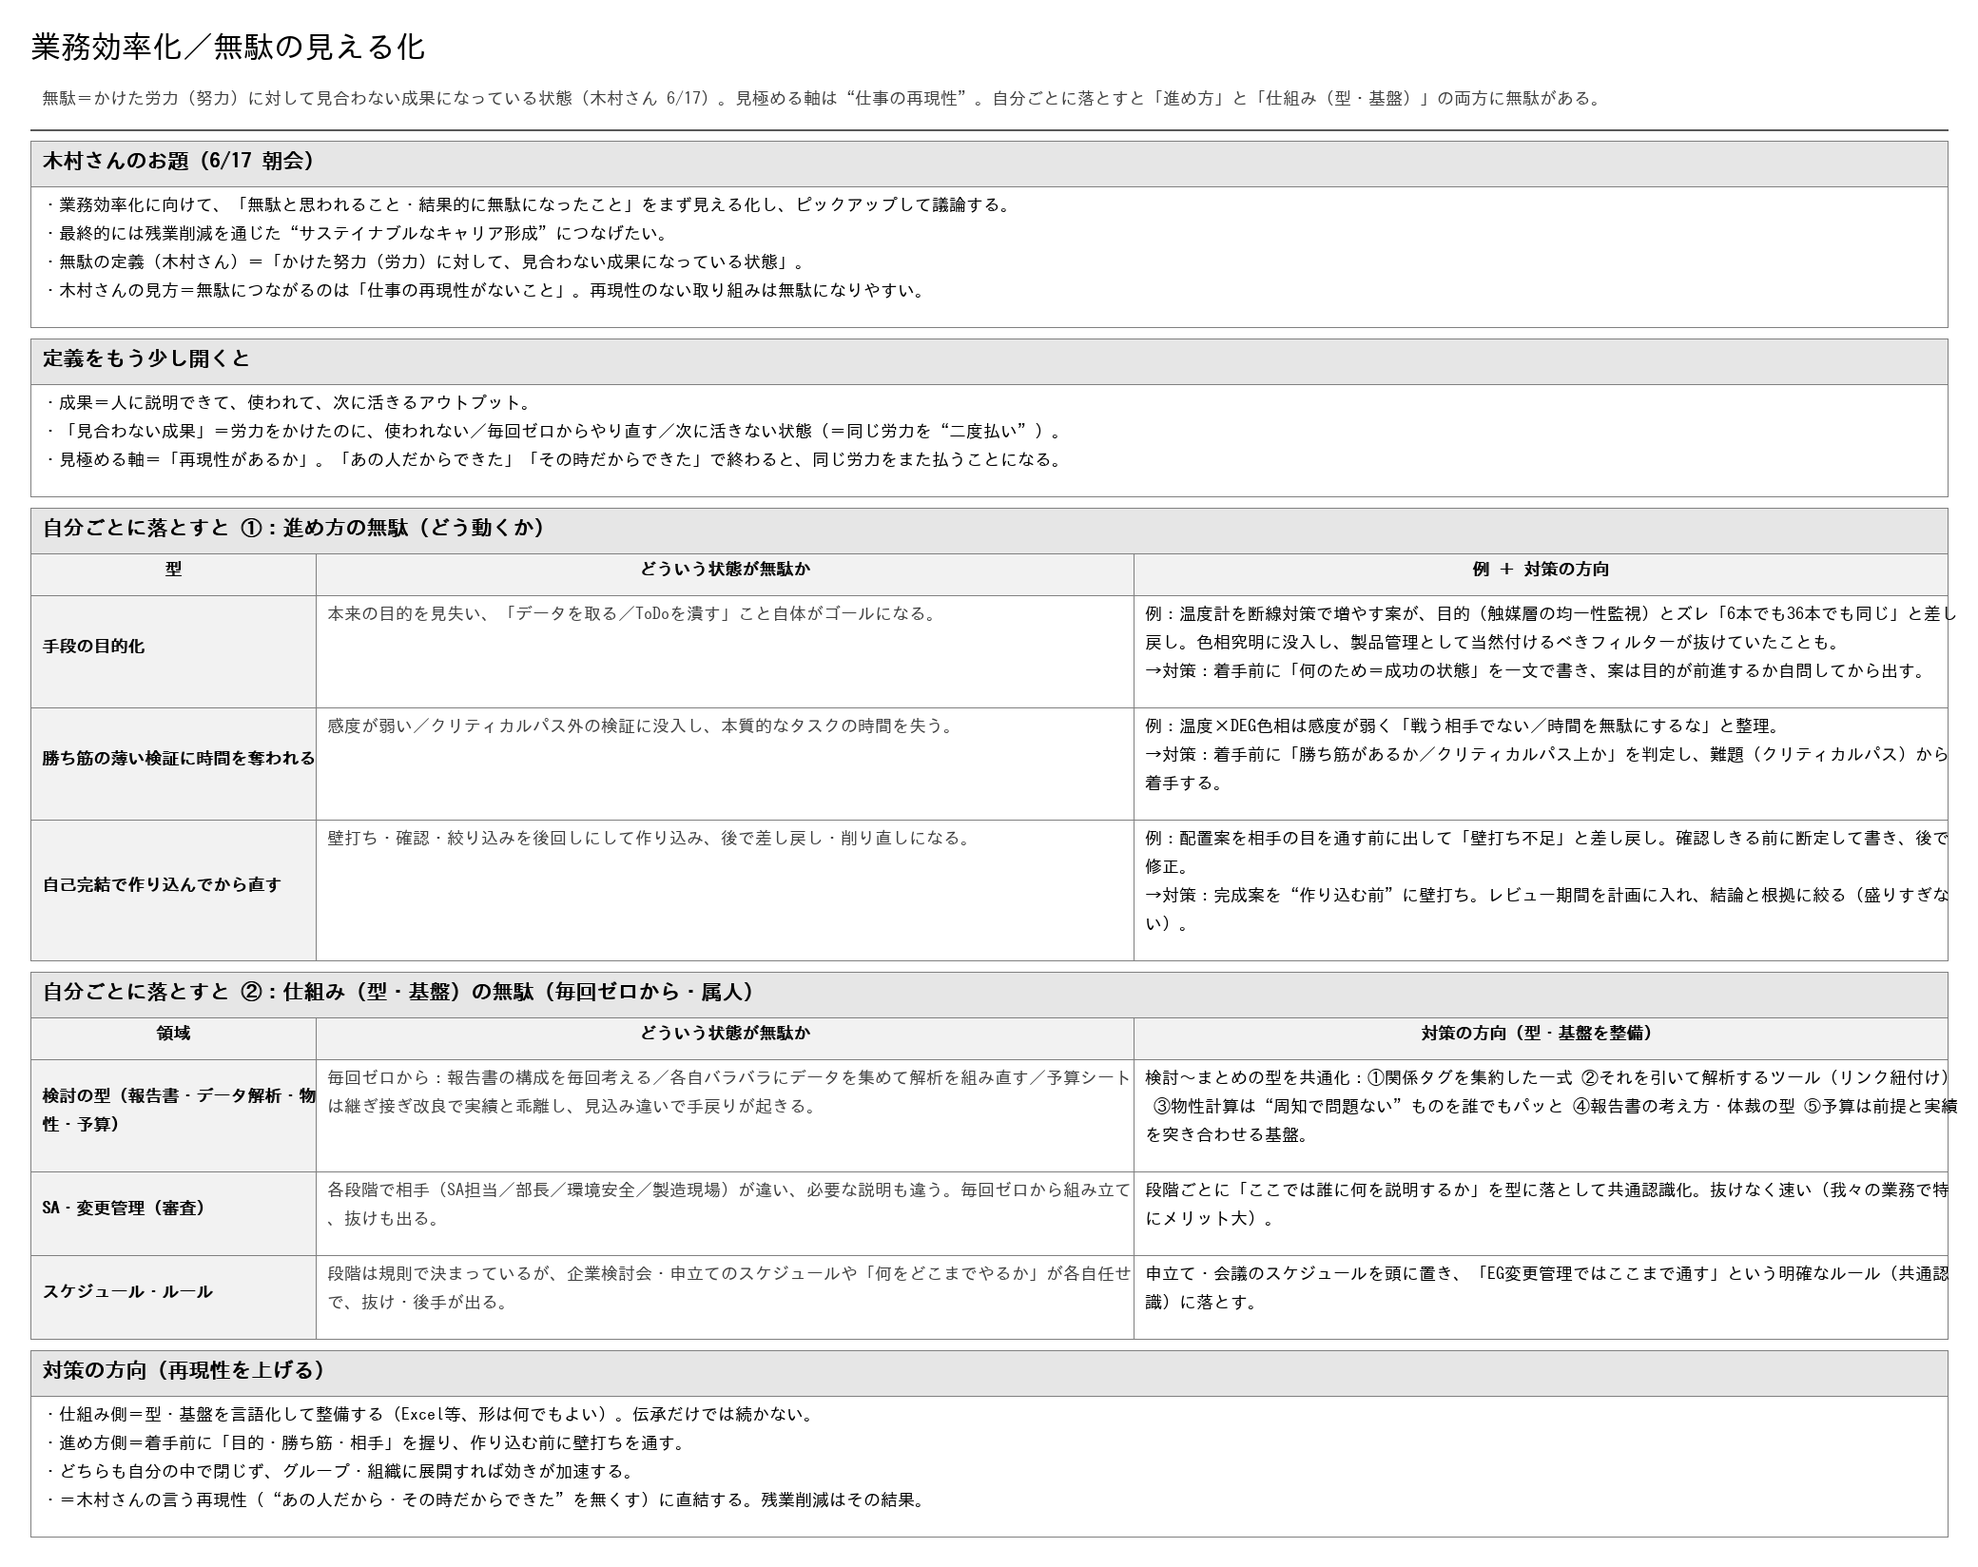
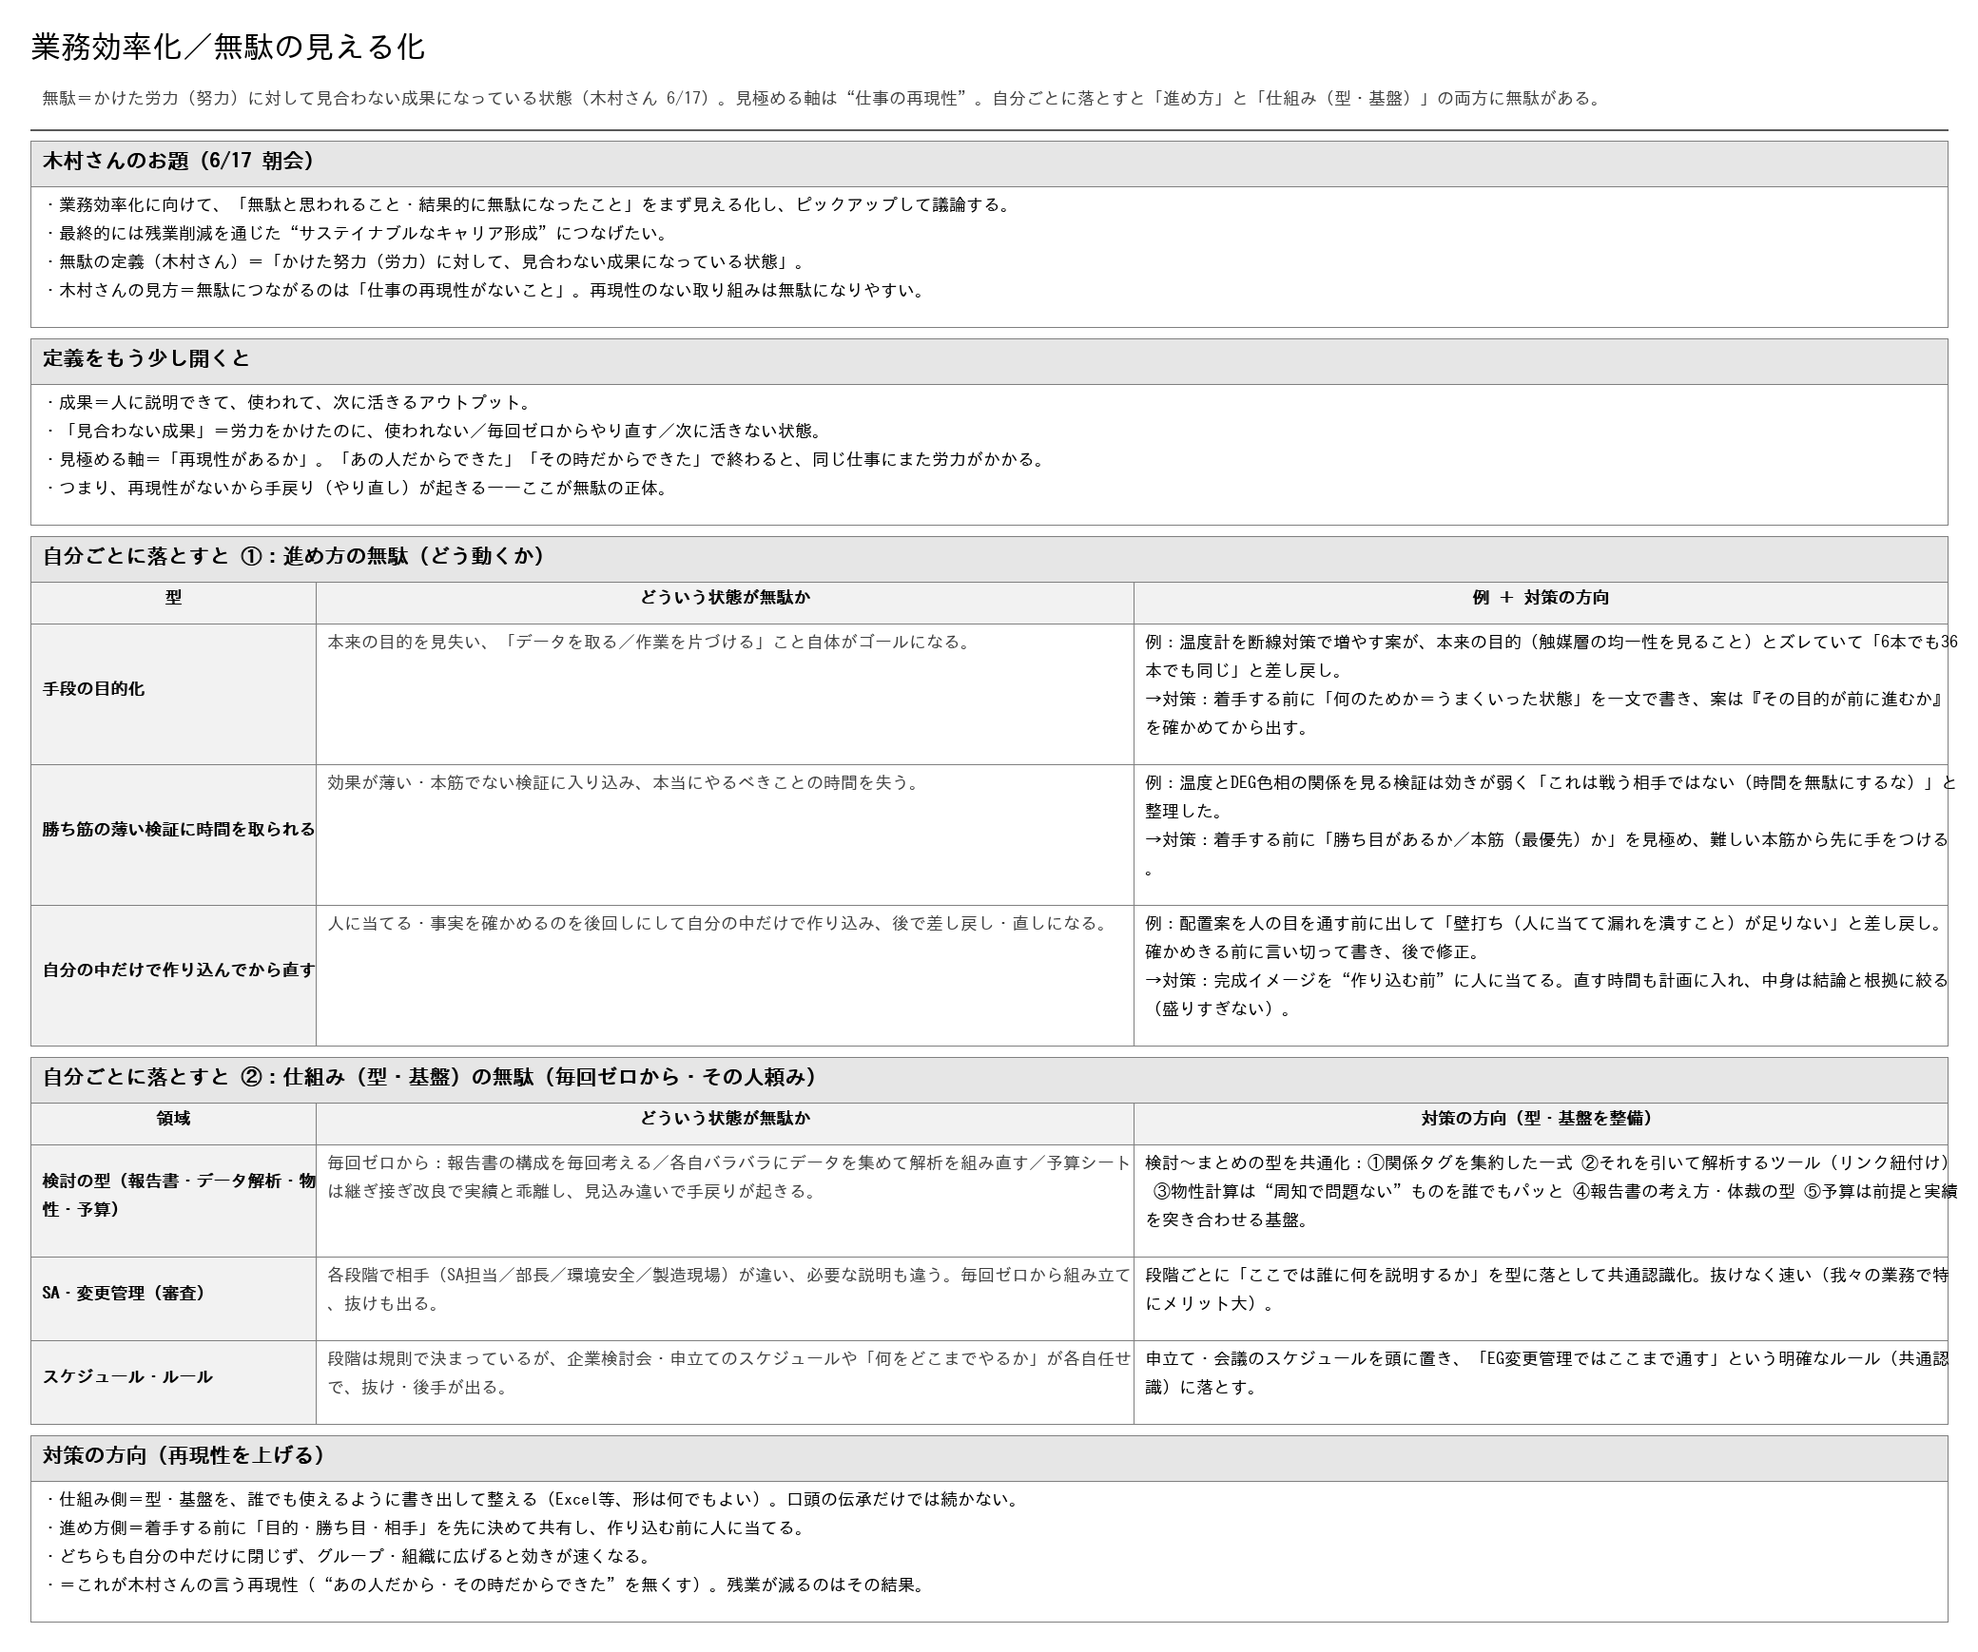
仕上げ：A1の微妙例を削除、難語を平易化、「再現性がないから手戻り」を明示
平尾フィードバック反映（読み上げて聞き手に伝わる文に）。
・A1手段の目的化：フィルター抜けの例を削除し温度計「6本でも36本でも同じ」一本に。
・通底ロジック「再現性がないから手戻り（やり直し）が起きる＝無駄の正体」を定義に明示。
・難語を平易化：二度払い／クリティカルパス／壁打ち／属人 等を平易な言い回しに
  （壁打ち＝人に当てて漏れを潰す等の補足、属人→その人頼み）。
・OneNote/Excel/PNGを同内容で再生成。

Claude-Session: https://claude.ai/code/session_017dmo7VZ42MVcMVwotCLB2X

diff --git a/scripts/content_muda.py b/scripts/content_muda.py
@@ -29,25 +29,26 @@ ODAI = [
 # ===== 定義を開く（成果とは何か・見極める軸） =====
 DEF_OPEN = [
     "成果＝人に説明できて、使われて、次に活きるアウトプット。",
-    "「見合わない成果」＝労力をかけたのに、使われない／毎回ゼロからやり直す／次に活きない状態（＝同じ労力を“二度払い”）。",
-    "見極める軸＝「再現性があるか」。「あの人だからできた」「その時だからできた」で終わると、同じ労力をまた払うことになる。",
+    "「見合わない成果」＝労力をかけたのに、使われない／毎回ゼロからやり直す／次に活きない状態。",
+    "見極める軸＝「再現性があるか」。「あの人だからできた」「その時だからできた」で終わると、同じ仕事にまた労力がかかる。",
+    "つまり、再現性がないから手戻り（やり直し）が起きる——ここが無駄の正体。",
 ]
 
 # ===== A. 進め方の無駄（どう動くか） =====
 # (型, どういう状態が無駄か, 実体験の例, 対策の方向)
 SUSUME = [
     ("手段の目的化",
-     "本来の目的を見失い、「データを取る／ToDoを潰す」こと自体がゴールになる。",
-     "温度計を断線対策で増やす案が、目的（触媒層の均一性監視）とズレ「6本でも36本でも同じ」と差し戻し。色相究明に没入し、製品管理として当然付けるべきフィルターが抜けていたことも。",
-     "着手前に「何のため＝成功の状態」を一文で書き、案は目的が前進するか自問してから出す。"),
-    ("勝ち筋の薄い検証に時間を奪われる",
-     "感度が弱い／クリティカルパス外の検証に没入し、本質的なタスクの時間を失う。",
-     "温度×DEG色相は感度が弱く「戦う相手でない／時間を無駄にするな」と整理。",
-     "着手前に「勝ち筋があるか／クリティカルパス上か」を判定し、難題（クリティカルパス）から着手する。"),
-    ("自己完結で作り込んでから直す",
-     "壁打ち・確認・絞り込みを後回しにして作り込み、後で差し戻し・削り直しになる。",
-     "配置案を相手の目を通す前に出して「壁打ち不足」と差し戻し。確認しきる前に断定して書き、後で修正。",
-     "完成案を“作り込む前”に壁打ち。レビュー期間を計画に入れ、結論と根拠に絞る（盛りすぎない）。"),
+     "本来の目的を見失い、「データを取る／作業を片づける」こと自体がゴールになる。",
+     "温度計を断線対策で増やす案が、本来の目的（触媒層の均一性を見ること）とズレていて「6本でも36本でも同じ」と差し戻し。",
+     "着手する前に「何のためか＝うまくいった状態」を一文で書き、案は『その目的が前に進むか』を確かめてから出す。"),
+    ("勝ち筋の薄い検証に時間を取られる",
+     "効果が薄い・本筋でない検証に入り込み、本当にやるべきことの時間を失う。",
+     "温度とDEG色相の関係を見る検証は効きが弱く「これは戦う相手ではない（時間を無駄にするな）」と整理した。",
+     "着手する前に「勝ち目があるか／本筋（最優先）か」を見極め、難しい本筋から先に手をつける。"),
+    ("自分の中だけで作り込んでから直す",
+     "人に当てる・事実を確かめるのを後回しにして自分の中だけで作り込み、後で差し戻し・直しになる。",
+     "配置案を人の目を通す前に出して「壁打ち（人に当てて漏れを潰すこと）が足りない」と差し戻し。確かめきる前に言い切って書き、後で修正。",
+     "完成イメージを“作り込む前”に人に当てる。直す時間も計画に入れ、中身は結論と根拠に絞る（盛りすぎない）。"),
 ]
 
 # ===== B. 仕組み（型・基盤）の無駄（毎回ゼロから・属人） =====
@@ -66,8 +67,8 @@ SHIKUMI = [
 
 # ===== 対策の方向（総括＝再現性を上げる） =====
 TAISAKU = [
-    "仕組み側＝型・基盤を言語化して整備する（Excel等、形は何でもよい）。伝承だけでは続かない。",
-    "進め方側＝着手前に「目的・勝ち筋・相手」を握り、作り込む前に壁打ちを通す。",
-    "どちらも自分の中で閉じず、グループ・組織に展開すれば効きが加速する。",
-    "＝木村さんの言う再現性（“あの人だから・その時だからできた”を無くす）に直結する。残業削減はその結果。",
+    "仕組み側＝型・基盤を、誰でも使えるように書き出して整える（Excel等、形は何でもよい）。口頭の伝承だけでは続かない。",
+    "進め方側＝着手する前に「目的・勝ち目・相手」を先に決めて共有し、作り込む前に人に当てる。",
+    "どちらも自分の中だけに閉じず、グループ・組織に広げると効きが速くなる。",
+    "＝これが木村さんの言う再現性（“あの人だから・その時だからできた”を無くす）。残業が減るのはその結果。",
 ]

diff --git a/scripts/draw_muda.py b/scripts/draw_muda.py
@@ -152,7 +152,7 @@ def draw_table(y, band_text, col_titles, table_rows):
 
 y = draw_table(y, "自分ごとに落とすと ①：進め方の無駄（どう動くか）",
                ["型", "どういう状態が無駄か", "例 ＋ 対策の方向"], rowsA)
-y = draw_table(y, "自分ごとに落とすと ②：仕組み（型・基盤）の無駄（毎回ゼロから・属人）",
+y = draw_table(y, "自分ごとに落とすと ②：仕組み（型・基盤）の無駄（毎回ゼロから・その人頼み）",
                ["領域", "どういう状態が無駄か", "対策の方向（型・基盤を整備）"], rowsB)
 
 y = draw_band(y, "対策の方向（再現性を上げる）")

diff --git a/scripts/build_muda_xlsx.py b/scripts/build_muda_xlsx.py
@@ -127,7 +127,7 @@ for label, state, example, counter in C.SUSUME:
 r += 1
 
 # 自分ごと B：仕組み（型・基盤）の無駄（3列＝領域/状態/対策）
-r = band(r, "自分ごとに落とすと ②：仕組み（型・基盤）の無駄（毎回ゼロから・属人）")
+r = band(r, "自分ごとに落とすと ②：仕組み（型・基盤）の無駄（毎回ゼロから・その人頼み）")
 heads = ["領域", "どういう状態が無駄か（型・基盤がない）", "対策の方向（型・基盤を整備）"]
 for i, h in enumerate(heads):
     c = ws.cell(r, 1 + i, h)

diff --git a/outputs/無駄の見える化_朝会OneNote用.md b/outputs/無駄の見える化_朝会OneNote用.md
@@ -10,26 +10,27 @@
 ―――――――――――――――――――――――――――――――
 ## ■ 定義をもう少し開くと
 - **成果**＝人に説明できて、使われて、次に活きるアウトプット。
-- 「**見合わない成果**」＝労力をかけたのに、使われない／毎回ゼロからやり直す／次に活きない（＝同じ労力を“二度払い”）。
-- 見極める軸＝「**再現性があるか**」。「あの人だからできた」「その時だからできた」で終わると、**同じ労力をまた払うことになる**。
+- 「**見合わない成果**」＝労力をかけたのに、使われない／毎回ゼロからやり直す／次に活きない状態。
+- 見極める軸＝「**再現性があるか**」。「あの人だからできた」「その時だからできた」で終わると、同じ仕事にまた労力がかかる。
+- つまり、**再現性がないから手戻り（やり直し）が起きる**——ここが無駄の正体。
 
 ―――――――――――――――――――――――――――――――
 ## ■ 自分ごとに落とすと（無駄は2種類見える）
 
-### A. 進め方の無駄（どう動くか）
-**A1. 手段の目的化** — 本来の目的を見失い、「データを取る／ToDoを潰す」こと自体がゴールになる。
-　例：温度計を断線対策で増やす案が、目的（触媒層の均一性監視）とズレ「6本でも36本でも同じ」と差し戻し。色相究明に没入し、当然付けるべきフィルターが抜けていたことも。
-　→ 着手前に「何のため＝成功の状態」を一文で書き、案は目的が前進するか自問してから出す。
+### ① 進め方の無駄（どう動くか）
+**A1. 手段の目的化** — 本来の目的を見失い、「データを取る／作業を片づける」こと自体がゴールになる。
+　例：温度計を断線対策で増やす案が、本来の目的（触媒層の均一性を見ること）とズレていて「6本でも36本でも同じ」と差し戻し。
+　→ 着手する前に「何のためか＝うまくいった状態」を一文で書き、案は『その目的が前に進むか』を確かめてから出す。
 
-**A2. 勝ち筋の薄い検証に時間を奪われる** — 感度が弱い／クリティカルパス外の検証に没入し、本質の時間を失う。
-　例：温度×DEG色相は感度が弱く「戦う相手でない／時間を無駄にするな」と整理。
-　→ 着手前に「勝ち筋があるか／クリティカルパス上か」を判定し、難題から着手。
+**A2. 勝ち筋の薄い検証に時間を取られる** — 効果が薄い・本筋でない検証に入り込み、本当にやるべきことの時間を失う。
+　例：温度とDEG色相の関係を見る検証は効きが弱く「これは戦う相手ではない（時間を無駄にするな）」と整理した。
+　→ 着手する前に「勝ち目があるか／本筋（最優先）か」を見極め、難しい本筋から先に手をつける。
 
-**A3. 自己完結で作り込んでから直す** — 壁打ち・確認・絞り込みを後回しにして作り込み、後で差し戻し・削り直しになる。
-　例：配置案を相手の目を通す前に出して「壁打ち不足」と差し戻し。確認しきる前に断定して書き、後で修正。
-　→ 完成案を“作り込む前”に壁打ち。レビュー期間を計画に入れ、結論と根拠に絞る（盛りすぎない）。
+**A3. 自分の中だけで作り込んでから直す** — 人に当てる・事実を確かめるのを後回しにして自分の中だけで作り込み、後で差し戻し・直しになる。
+　例：配置案を人の目を通す前に出して「壁打ち（人に当てて漏れを潰すこと）が足りない」と差し戻し。確かめきる前に言い切って書き、後で修正。
+　→ 完成イメージを“作り込む前”に人に当てる。直す時間も計画に入れ、中身は結論と根拠に絞る（盛りすぎない）。
 
-### B. 仕組み（型・基盤）の無駄（毎回ゼロから・属人）
+### ② 仕組み（型・基盤）の無駄（毎回ゼロから・その人頼み）
 **B1. 検討の型（報告書・データ解析・物性・予算）** — 報告書の構成を毎回考える／各自バラバラにデータを集めて解析を組み直す／予算シートは継ぎ接ぎ改良で実績と乖離し、見込み違いで手戻り。
 　→ 検討〜まとめの型を共通化：①関係タグを集約した一式　②引いて解析するツール（リンク紐付け）　③物性計算は“周知で問題ない”ものを誰でもパッと　④報告書の考え方・体裁の型　⑤予算は前提と実績を突き合わせる基盤。
 
@@ -41,7 +42,7 @@
 
 ―――――――――――――――――――――――――――――――
 ## ■ 対策の方向（再現性を上げる）
-- **仕組み側**＝型・基盤を言語化して整備する（Excel等、形は何でもよい）。伝承だけでは続かない。
-- **進め方側**＝着手前に「目的・勝ち筋・相手」を握り、作り込む前に壁打ちを通す。
-- どちらも自分の中で閉じず、**グループ・組織に展開**すれば効きが加速する。
-- ＝木村さんの言う**再現性**（“あの人だから・その時だからできた”を無くす）に直結する。残業削減はその結果。
+- **仕組み側**＝型・基盤を、誰でも使えるように書き出して整える（Excel等、形は何でもよい）。口頭の伝承だけでは続かない。
+- **進め方側**＝着手する前に「目的・勝ち目・相手」を先に決めて共有し、作り込む前に人に当てる。
+- どちらも自分の中だけに閉じず、**グループ・組織に広げる**と効きが速くなる。
+- ＝これが木村さんの言う**再現性**（“あの人だから・その時だからできた”を無くす）。残業が減るのはその結果。
